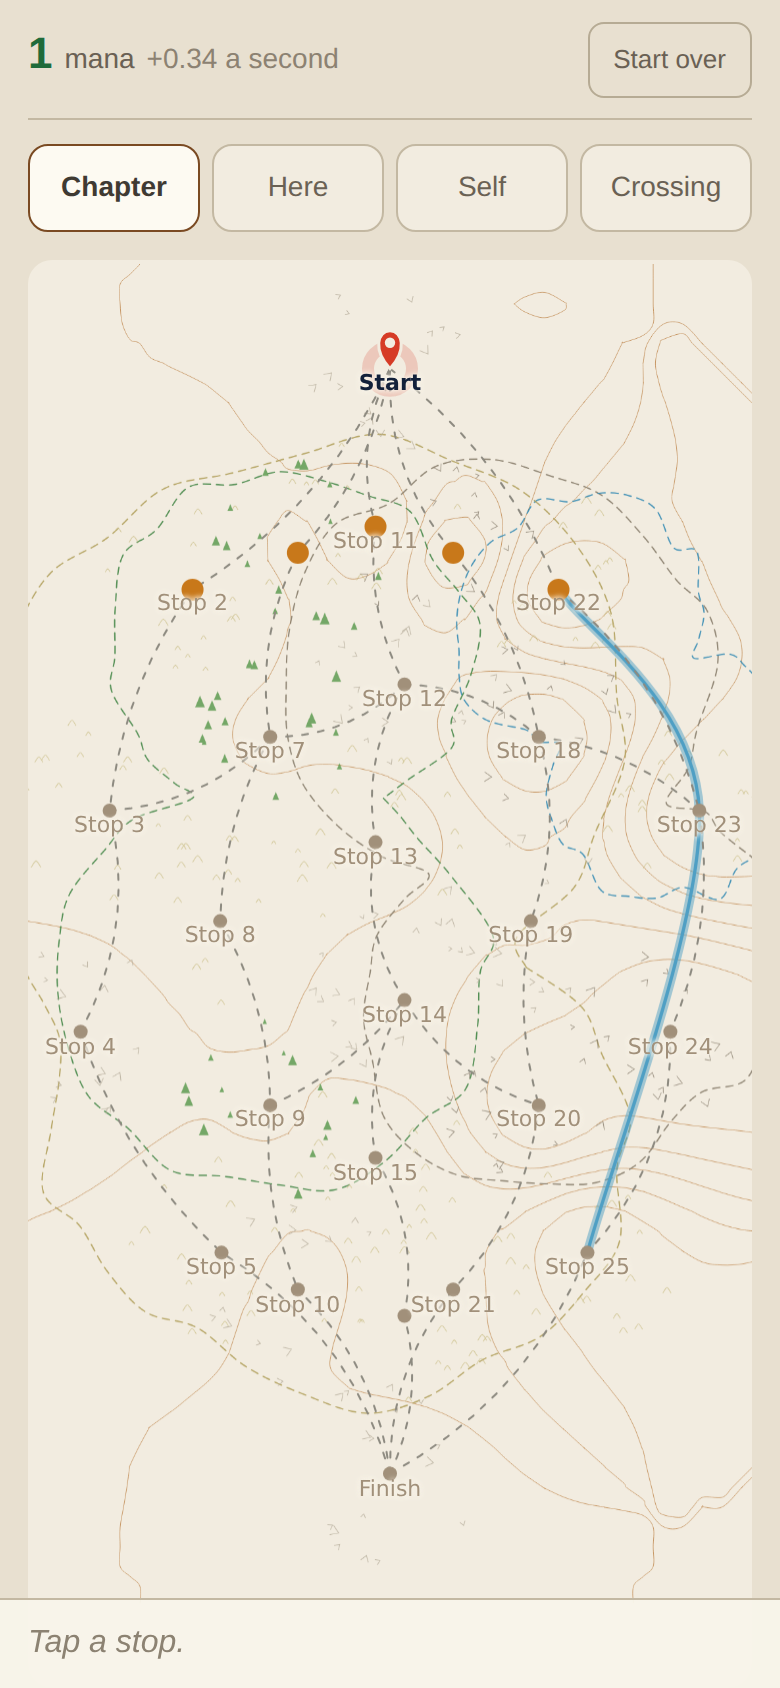
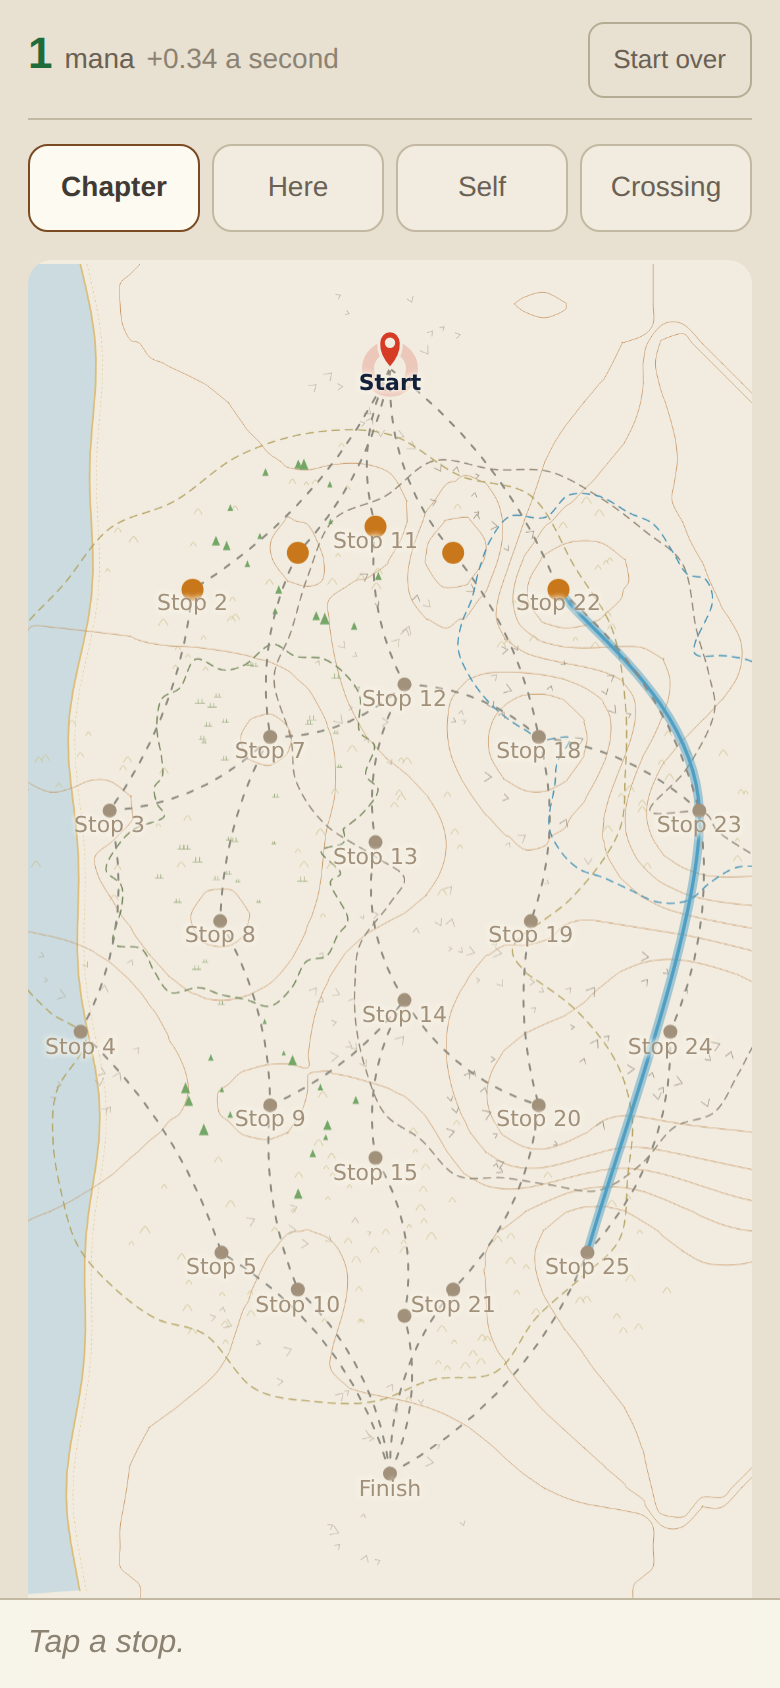
Bog, the sea, and its beach
The last of the owner's natural-features ask: *"valleys and hills and bogs and
the sea somewhere and beaches and so on and rivers."* Valleys and hills are the
contours; the river runs; this adds the rest.

★ BOG IS A GROUND, not a decoration: GOING 2.1 and BORE 0.70, dear AND narrow —
the one ground that is simply bad, where everything else trades price against
carry. Two stops of route 1 stand in it, it draws the standard marsh mark
(rushes over a water-line), it has its own region ring, and it sits low in the
height field so the contours pool around it.

★ THE SEA RUNS DOWN THE WESTERN EDGE, with a beach line and a dotted foreshore
where it meets the land. It is the first mark on this map not centred on a stop,
and it is honestly decorative: nothing prices it, nothing stops at it. When the
owner decides what a coast DOES, the drawing is already standing where it will
happen.

⚠ THE FIRST CUT PAINTED THE ENTIRE SEA OFF-SCREEN. The coast was based on the
TERRAIN's box, which starts a scatter-width further west than the frame the
camera fits; the probe read 0px of sea and the screenshot showed one yellow
sliver at the edge. Decor the player cannot see is decor that does not exist —
rebased on `VIEW`, the camera's own box.

---- RULE 4 ----------------------------------------------------------------

  HEIGHT.bog removed while GOING.bog prices it
    → RED "every ground the roads are priced by has a height: no height for bog"
[…]

diff --git a/src/game/terrain.ts b/src/game/terrain.ts
@@ -15,12 +15,12 @@
 //
 // Nothing here knows about the canvas, the camera or the game. It is geometry.
 import { STOPS } from './stops';
-import { SPOT, boxOf, type Box } from './layout';
+import { SPOT, boxOf, VIEW, type Box } from './layout';
 import { INK, type InkName } from './ink';
 import type { Shape, Pt } from './shapes';
 import { contours, regions, HEIGHT } from './relief';
 
-export type Ground = 'wood' | 'moor' | 'crag' | 'under' | 'stone';
+export type Ground = 'wood' | 'moor' | 'crag' | 'under' | 'stone' | 'bog';
 
 /** ⚠ THE COLOURS LIVE IN `ink.ts` NOW, with every other colour in the game.
  *  Re-exported because the constraint on them is still specific to scenery: the
@@ -29,6 +29,7 @@ export type Ground = 'wood' | 'moor' | 'crag' | 'under' | 'stone';
  *  vacuous. `test/ink.test.ts` holds the distances for all of them now. */
 export const GROUND_INK: Record<Ground, string> = {
   wood: INK.wood, moor: INK.moor, crag: INK.crag, under: INK.under, stone: INK.stone,
+  bog: INK.bog,
 };
 export const RIVER_INK = INK.river;
 
@@ -38,7 +39,7 @@ export const RIVER_INK = INK.river;
  *  of it, and this draws the same fact. **What you see and what you pay are one
  *  number now**, which is the whole reason the map is worth looking at. */
 const GROUND: Record<string, Ground> = {
-  wood: 'wood', moor: 'moor', crag: 'crag', stone: 'stone',
+  wood: 'wood', moor: 'moor', crag: 'crag', stone: 'stone', bog: 'bog',
   // Water is drawn as the river below rather than as scatter.
   water: 'moor',
 };
@@ -118,6 +119,17 @@ function markShapes(m: Mark): Shape[] {
       { x: m.x + m.r, y: m.y },
     ] }];
   }
+  if (m.g === 'bog') {
+    // Two short rushes over a water-line — the standard marsh mark.
+    return [
+      { s: 'path', ink: m.g, w, pts: [
+        { x: m.x - m.r, y: m.y }, { x: m.x + m.r, y: m.y }] },
+      { s: 'path', ink: m.g, w, pts: [
+        { x: m.x - m.r * 0.4, y: m.y - m.r * 0.9 }, { x: m.x - m.r * 0.4, y: m.y }] },
+      { s: 'path', ink: m.g, w, pts: [
+        { x: m.x + m.r * 0.4, y: m.y - m.r * 0.9 }, { x: m.x + m.r * 0.4, y: m.y }] },
+    ];
+  }
   if (m.g === 'crag' || m.g === 'stone') {
     const c = Math.cos(m.a), sn = Math.sin(m.a);
     const at = (dx: number, dy: number): Pt =>
@@ -185,8 +197,35 @@ const LEVELS = (() => {
 
 const RING_INK: Record<string, InkName> = {
   wood: 'edgewood', crag: 'edgecrag', moor: 'edgemoor', water: 'edgewater',
-  stone: 'edgecrag',
+  stone: 'edgecrag', bog: 'edgebog',
 };
+
+/** ★ THE COAST. The sea runs down the map's western edge with a beach line
+ *  where it meets the land — a wavering line, because a ruled coast reads as a
+ *  border. Pure decor for now and honestly so: nothing prices it, nothing stops
+ *  at it. It is the first mark on this map that is not centred on a stop. */
+const COAST: Shape[] = (() => {
+  // ⚠ BASED ON `VIEW` — THE CAMERA'S BOX — NOT ON THE TERRAIN'S. The first cut
+  // used `TERRAIN.box`, which starts a scatter-width further west than the
+  // frame the board fits to, and the whole sea painted off the left edge of the
+  // screen: the probe read 0px and the screenshot showed one yellow sliver.
+  // Decor the player cannot see is decor that does not exist.
+  const b = TERRAIN.box;
+  const west = VIEW.x;
+  const shore: Pt[] = [];
+  for (let y = b.y; y <= b.y + b.h; y += 18) {
+    shore.push({ x: west + 42 + 9 * Math.sin(y / 84) + 4 * Math.sin(y / 31), y });
+  }
+  const water: Pt[] = [
+    { x: b.x - 40, y: b.y }, ...shore, { x: b.x - 40, y: b.y + b.h },
+  ];
+  return [
+    { s: 'path', pts: water, ink: 'sea', fill: true, close: true, alpha: 0.5 },
+    { s: 'path', pts: shore, ink: 'beach', w: 2.6, alpha: 0.9 },
+    { s: 'path', pts: shore.map((p) => ({ x: p.x + 5, y: p.y })), ink: 'beach',
+      w: 1, dash: [2, 5], alpha: 0.8 },
+  ];
+})();
 
 export const TERRAIN_SHAPES: Shape[] = [
   // ★ THE RELIEF GOES DOWN FIRST, UNDER EVERYTHING. It is the ground; the
@@ -194,6 +233,7 @@ export const TERRAIN_SHAPES: Shape[] = [
   {
     s: 'baked', key: 'relief', box: TERRAIN.box, alpha: 0.9,
     shapes: [
+      ...COAST,
       ...contours(TERRAIN.box, LEVELS).map((pts): Shape =>
         ({ s: 'path', pts, ink: 'relief', w: 1, curve: true })),
       // The region outlines, dashed, in the ground's own colour — so the line

diff --git a/src/game/stops.ts b/src/game/stops.ts
@@ -24,7 +24,7 @@
 
 /** The ground a stop sits on. Drives what a road out of it costs, and later
  *  what the weather does to it. Inks for all five already exist in `ink.ts`. */
-export type Ground = 'moor' | 'wood' | 'crag' | 'water' | 'stone';
+export type Ground = 'moor' | 'wood' | 'crag' | 'water' | 'stone' | 'bog';
 
 /** ★ THE GROUND IS THE PRICE. The owner has asked twice for height and contours
  *  on the map; this is the number those contours will be a picture OF. */
@@ -32,6 +32,7 @@ export const GOING: Record<Ground, number> = {
   moor: 1,       // open, level, dull — the cheap way round
   stone: 1.3,    // hard going but it takes a road well
   wood: 1.7,     // has to be cleared before it can be cut
+  bog: 2.1,      // everything you lay sinks a little before it holds
   crag: 2.4,     // steep
   water: 3.1,    // needs a ford or a bridge
 };
@@ -50,6 +51,7 @@ export const GOING: Record<Ground, number> = {
  *  "more options"; the options are here or they are nowhere. */
 export const BORE: Record<Ground, number> = {
   moor: 0.55,    // cheap to lay, and it never carries much
+  bog: 0.70,     // dear AND narrow — the ground that is simply bad
   wood: 0.90,
   water: 0.85,   // dear, and a ford is a ford
   crag: 1.25,    // cut into rock, and it holds
@@ -113,7 +115,7 @@ const LENGTH = [4, 5, 6, 5, 4];
  *  reason there is a choice. */
 const TERRAIN: Ground[][] = [
   ['moor', 'moor', 'stone', 'moor'],
-  ['wood', 'wood', 'moor', 'wood', 'stone'],
+  ['wood', 'bog', 'bog', 'wood', 'stone'],
   ['moor', 'stone', 'moor', 'stone', 'moor', 'moor'],
   ['crag', 'crag', 'stone', 'crag', 'moor'],
   ['water', 'water', 'crag', 'water'],

diff --git a/src/game/relief.ts b/src/game/relief.ts
@@ -33,6 +33,7 @@ import type { Shape, Pt } from './shapes';
  *  low. Deriving one from the other would make the river a ridge. */
 export const HEIGHT: Record<Ground, number> = {
   water: 0,
+  bog: 14,       // the wet low ground the water almost claims
   moor: 34,
   wood: 52,
   stone: 66,
@@ -210,7 +211,7 @@ export function regions(): Region[] {
   // ⚠ STONE IS DELIBERATELY NOT A REGION. It is the neutral ground the start
   // and the finish sit on and it turns up all over; ringing it would draw a
   // border round most of the map and say nothing.
-  for (const ground of ['wood', 'crag', 'water', 'moor'] as Ground[]) {
+  for (const ground of ['wood', 'crag', 'water', 'moor', 'bog'] as Ground[]) {
     const mine = STOPS.filter((p) => p.ground === ground).map((p) => SPOT.get(p.id)!);
     // Single-link clustering: near anything in the group joins the group.
     const left = [...mine];

diff --git a/src/game/ink.ts b/src/game/ink.ts
@@ -81,6 +81,13 @@ export const INK = {
   edgecrag: '#7a6f5c',
   edgemoor: '#a8964a',
   edgewater: '#1f7fae',
+  bog: '#8aa06a',
+  edgebog: '#55703a',
+  /** ★ THE SEA, along the map's western edge, and the BEACH line where it meets
+   *  the land. Decor with a promise in it: *"the sea somewhere and beaches"* —
+   *  the first thing on this map not centred on a stop. */
+  sea: '#9cc7de',
+  beach: '#d9b45f',
 } as const;
 
 export type InkName = keyof typeof INK;
@@ -125,6 +132,8 @@ export const TOL: Partial<Record<InkName, number>> = {
   crag: 12,
   wood: 12,
   river: 12,
+  sea: 12,
+  beach: 12,
 };
 export const COUNTED = Object.keys(TOL) as InkName[];
 

diff --git a/src/game/world.ts b/src/game/world.ts
@@ -81,6 +81,7 @@ const ground = (g: string): string => ({
   crag: 'Crag — steep',
   water: 'Water — needs a ford or a bridge',
   stone: 'Hard standing — takes a pipe well',
+  bog: 'Bog — it swallows what you lay in it',
 }[g] ?? g);
 
 export const DOING = 'doing';

diff --git a/docs/DECISIONS.md b/docs/DECISIONS.md
@@ -1800,3 +1800,4 @@ Entries above this line are long because the one-line rule did not exist yet.
 - 2026-08-03 — **The fill grows from the end you laid it from; a finished lay carries you over; you are a map pin.** `building` gained `from` (SAVE_VERSION 6, saves reset) — the twice-reported wrong-side fill existed because the board had no way to know which end was yours and guessed the lower id. Arrival happens only on a fresh lay and only if you still stand where you started it.
 - 2026-08-03 — **Cartography pass, conventions from openstreetmap-carto (CC0): casing under built pipes, labels placed by priority with losers dropped.** The dot always stays; only the NAME is dropped, and selection always wins.
 - 2026-08-03 — **Roads bend, and the bend is the terrain's** (owner: *"let them curve and bend around terrain"*). `paths.ts` bows each road toward the LOWER of its two candidate sides, read from the same height field the contours draw. The fill follows the bend cut by LENGTH — a straight fill would leave its own bed. Chapter only: other tabs solve their own layouts, so a path baked in world coordinates would join two points that are not there.
+- 2026-08-03 — **Bog is a ground; the sea and its beach are coast decor.** Bog is dear AND narrow (GOING 2.1, BORE 0.70) — the ground that is simply bad — with marsh marks, a low height, and its own region ring. The coast runs down the west edge, based on the CAMERA's box, not the terrain's: the first cut painted the entire sea off-screen and the probe read 0px. Decor the player cannot see is decor that does not exist. Sea and beach are honestly decorative — nothing prices them yet.

diff --git a/docs/NEXT.md b/docs/NEXT.md
@@ -163,7 +163,16 @@ What is worth taking is CONVENTION, not code:
 - **Dash vocabulary** — a footpath, a track and a road are told apart by dash
   pattern, not colour.
 
-## ★★★ THE MAP, ROUND TWO — 2026-08-02, later the same day
+## ✅ DONE 2026-08-03 — map round two, all four
+
+E: the fill grows from the end you laid it from (`building.from`, SAVE_VERSION 6).
+F: a finished lay carries you over; you are a red map pin.
+Cartography: built pipes are cased; labels drop losers by priority; roads BEND,
+and the bend takes the lower ground, with the fill following by length.
+G: bog is a ground (dear AND narrow); the sea runs down the west edge with a
+beach line. Sea/beach are decor and honestly so — nothing prices them yet.
+
+## ★★★ superseded — THE MAP, ROUND TWO — 2026-08-02
 
 Five more, in the owner's words. **E and F are corrections to shipped behaviour**
 — one is a bug they have now reported twice. **G and H are the look.**
